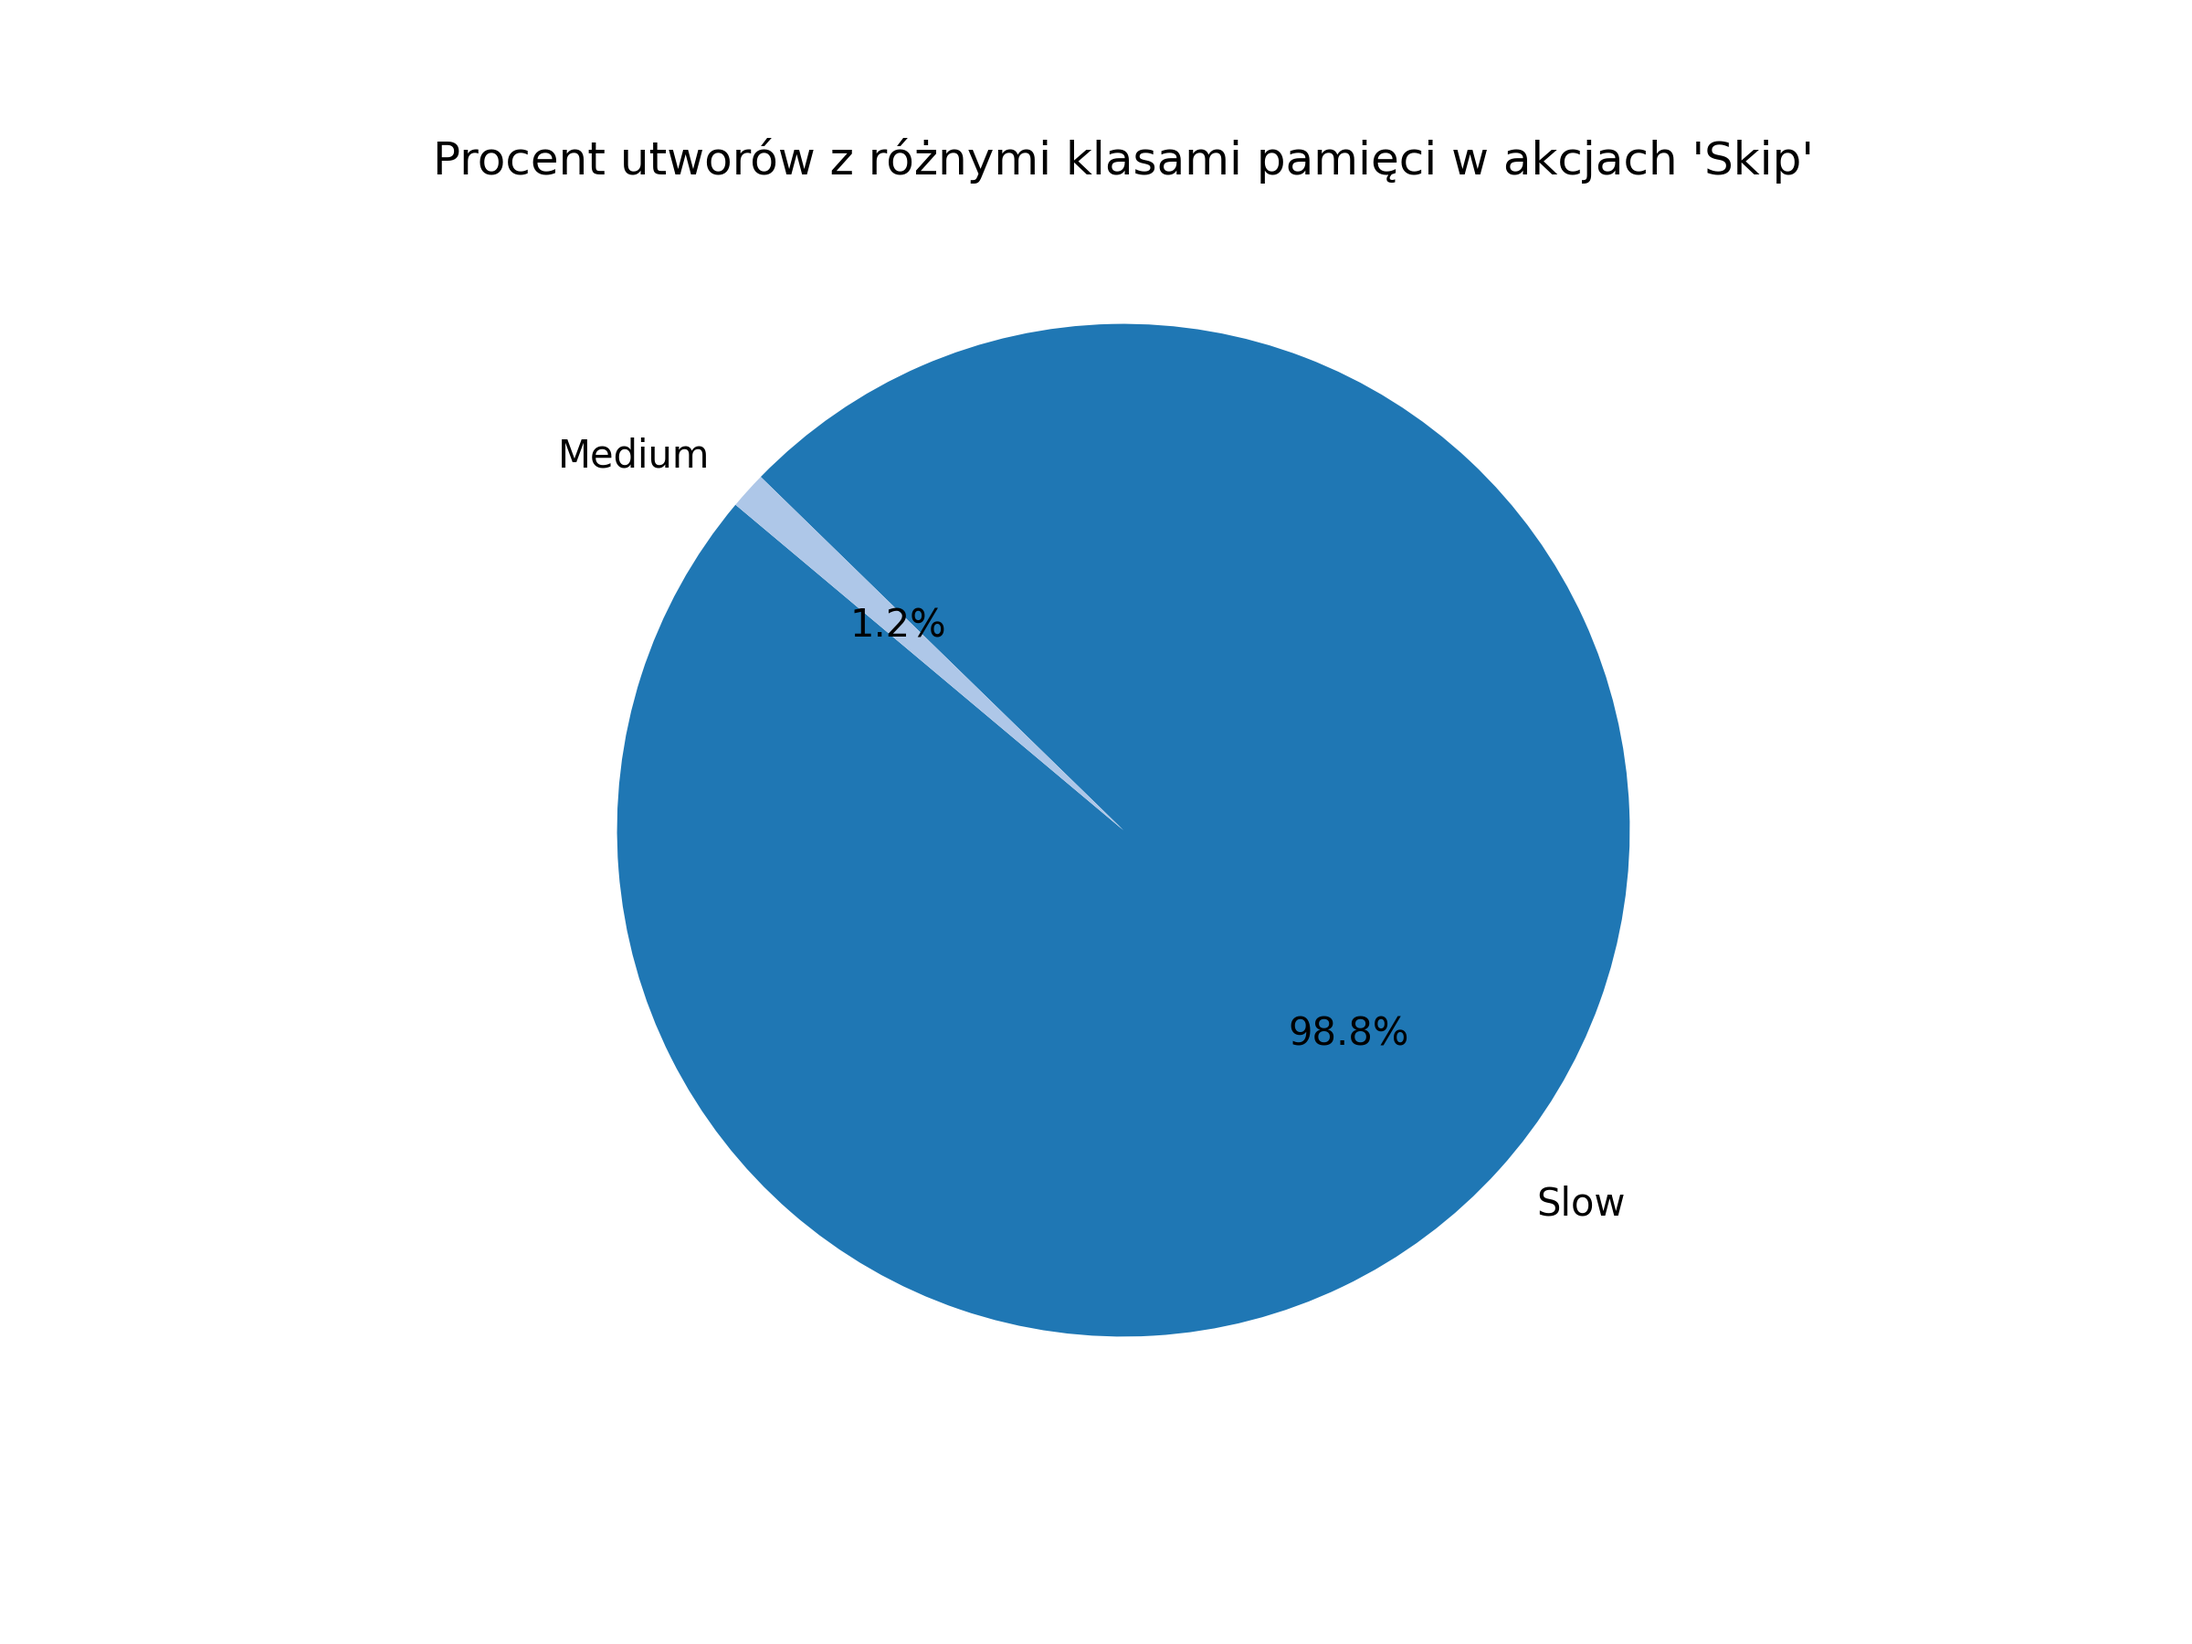
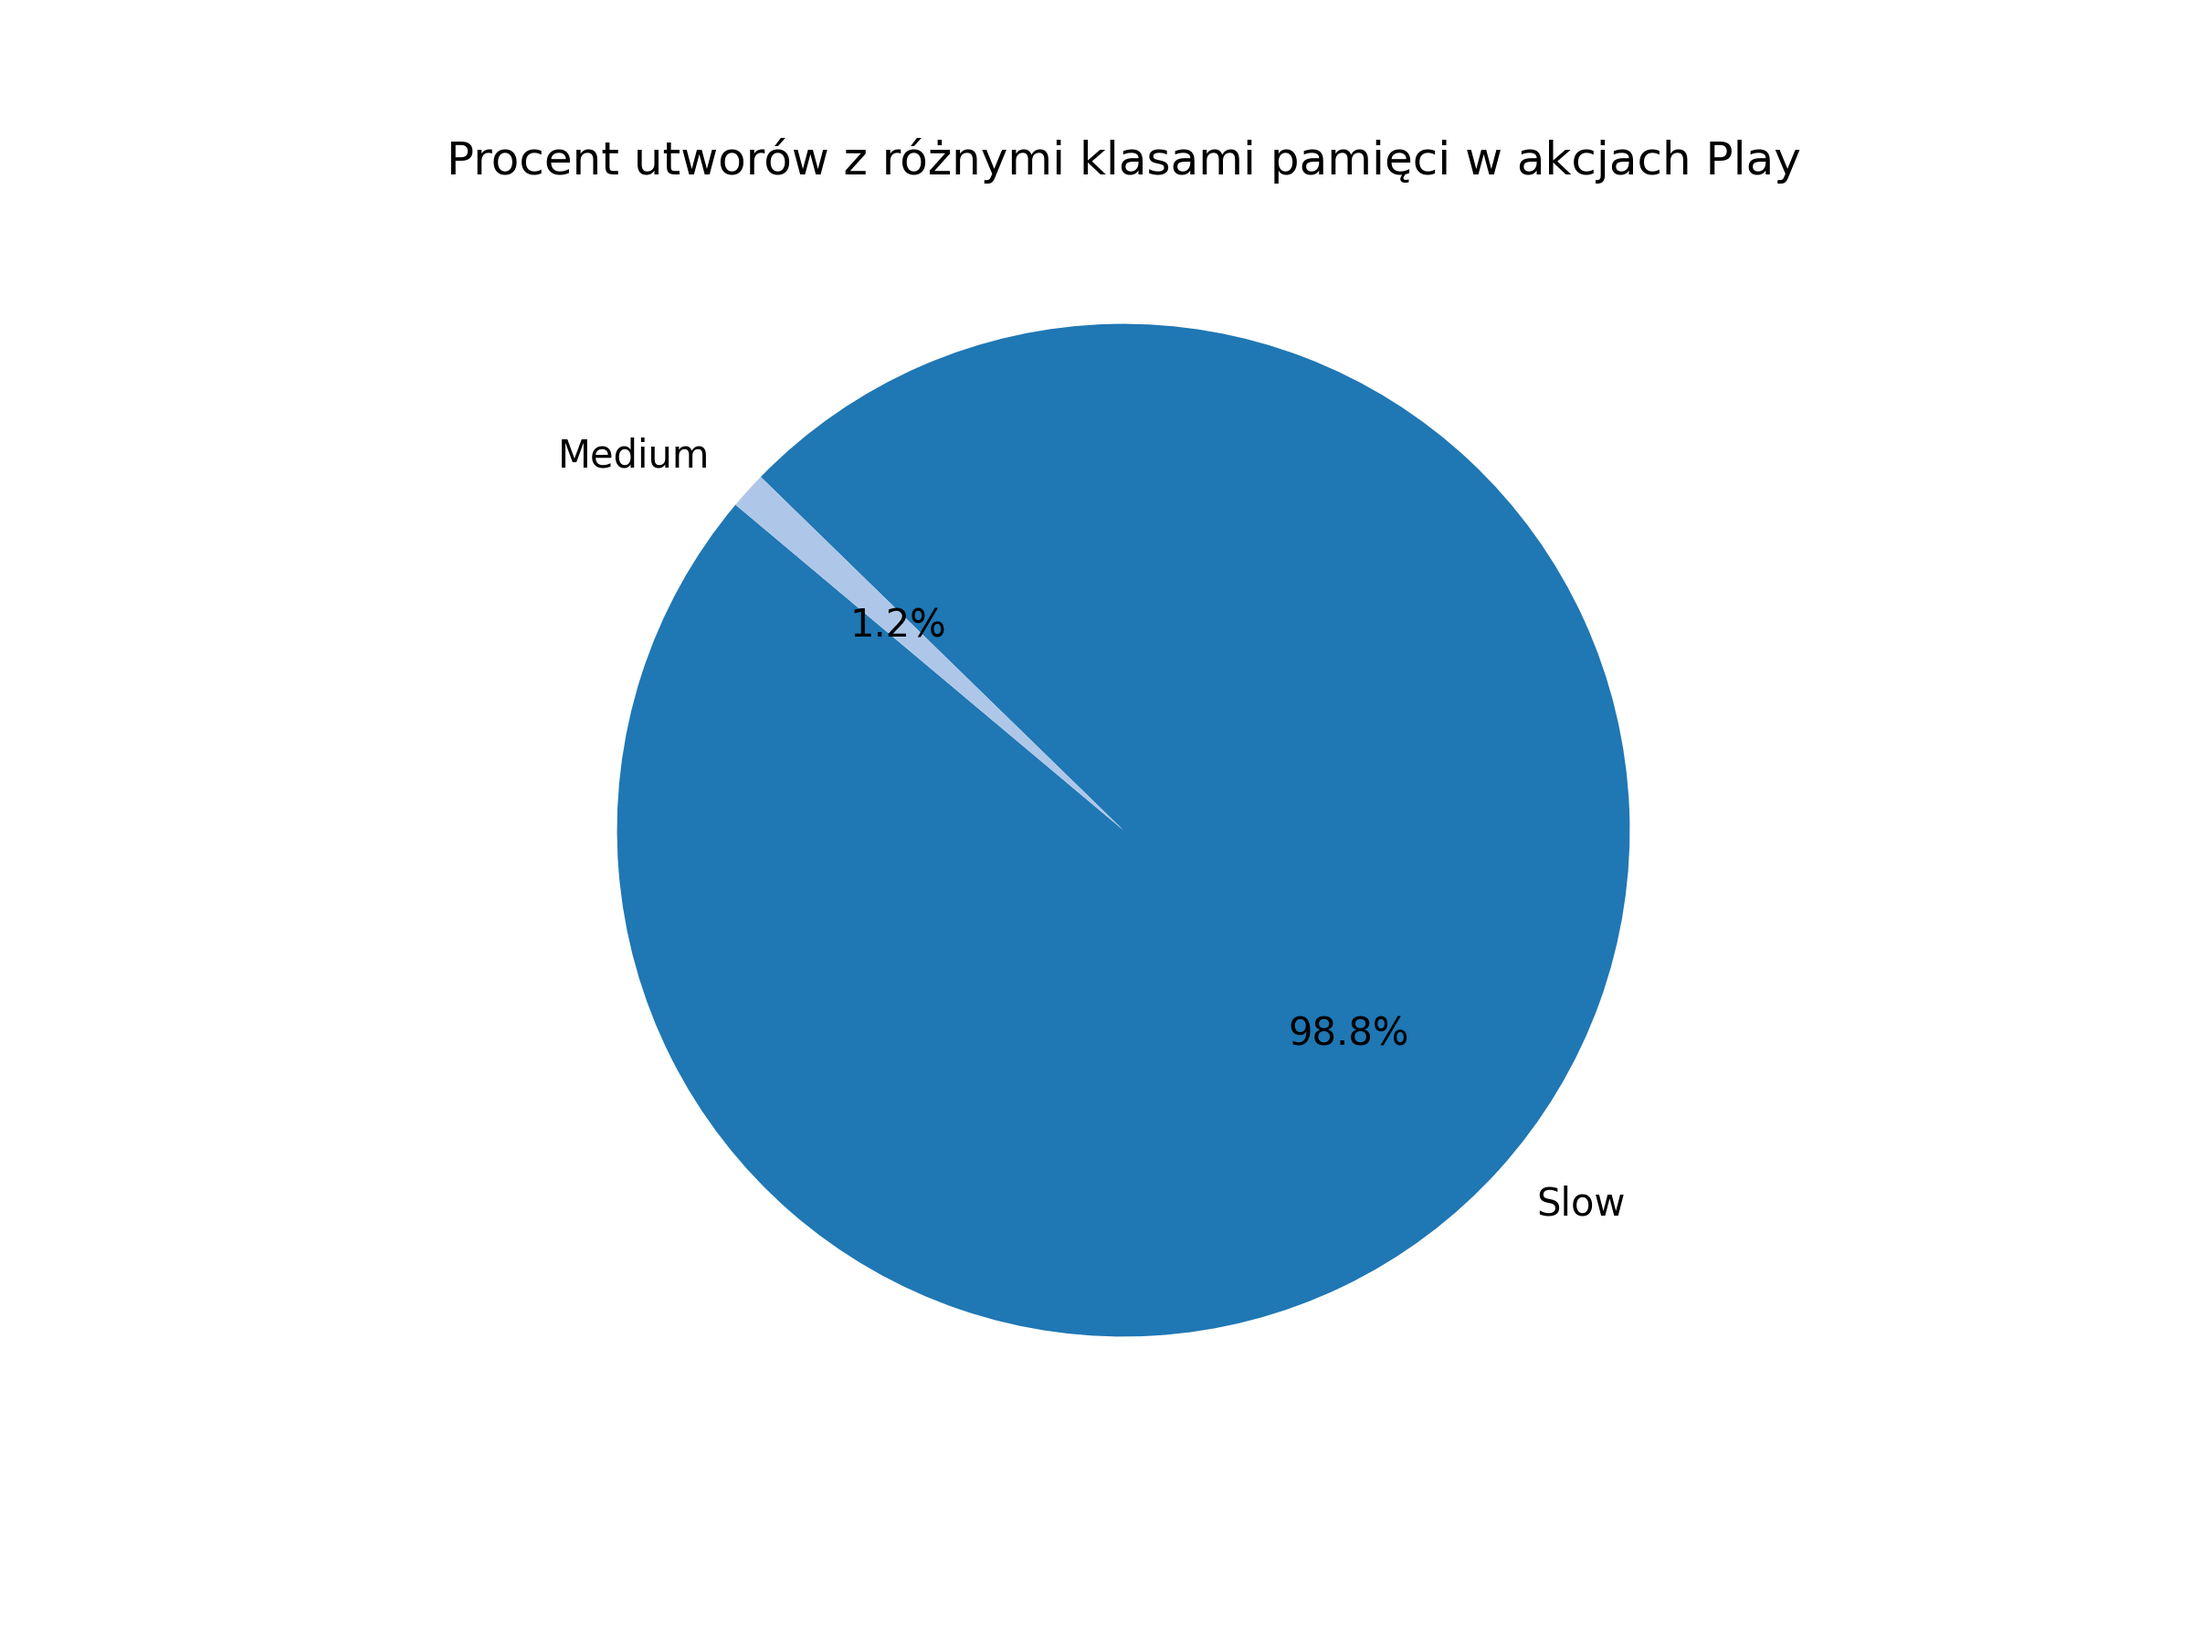
Update plot titile

Changed region(s): [[0.1875, 0.0933, 0.8125, 0.1244]]

diff --git a/data_analize_scripts/data_ploter.py b/data_analize_scripts/data_ploter.py
@@ -114,13 +114,13 @@ def analyze_skip_percentage(session_file, storage_file, storage_mode, path_to_sa
     # Tworzenie wykresu kołowego
     plt.figure(figsize=(8, 6))
     plt.pie(values, labels=labels, autopct='%1.1f%%', startangle=140, colors=plt.cm.tab20.colors)
-    plt.title("Procent utworów z różnymi klasami pamięci w akcjach 'Skip'")
+    plt.title(f"Procent utworów z różnymi klasami pamięci w akcjach {storage_mode}")
     plt.savefig(PLOTS_FOLDER_PATH + path_to_save, format="png", dpi=300)
 
 def main():
-    #actions_in_session('sessions.jsonl')
-    #analyze_skip_percentage('sessions.jsonl', 'track_storage.jsonl','Skip','SkipSession.png')
-    #analyze_skip_percentage('sessions.jsonl', 'track_storage.jsonl','Play','PlaySession.png')
+    actions_in_session('sessions.jsonl')
+    analyze_skip_percentage('sessions.jsonl', 'track_storage.jsonl','Skip','SkipSession.png')
+    analyze_skip_percentage('sessions.jsonl', 'track_storage.jsonl','Play','PlaySession.png')
     storage_mode('track_storage.jsonl', 'storage_mode.png')
 
 main()
